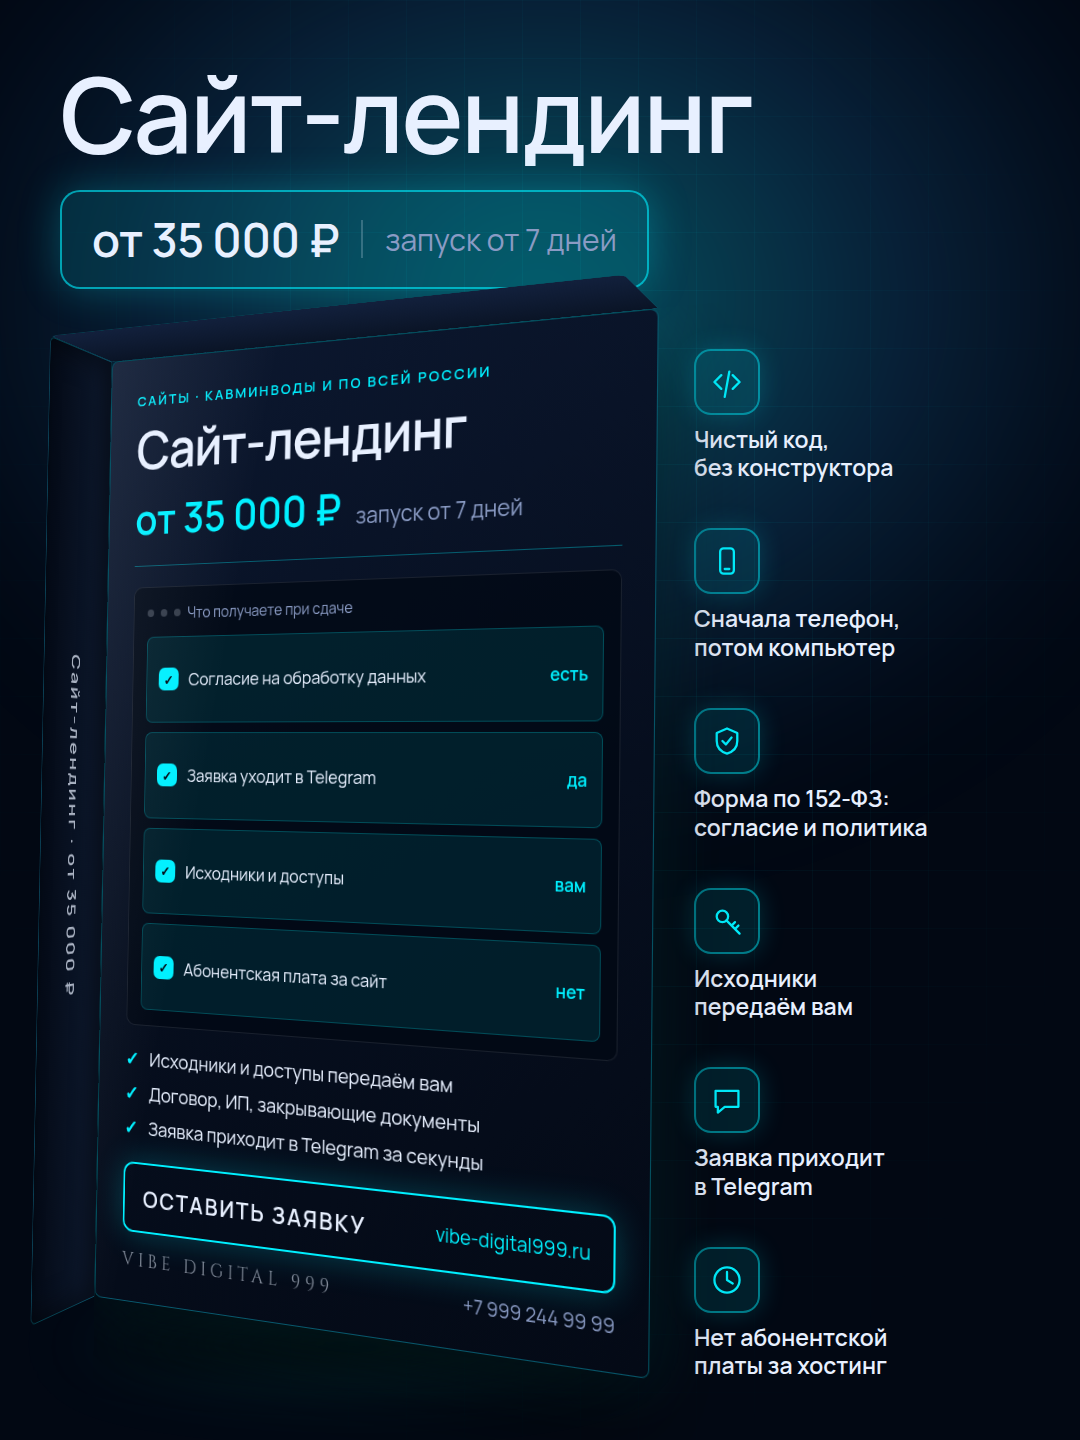
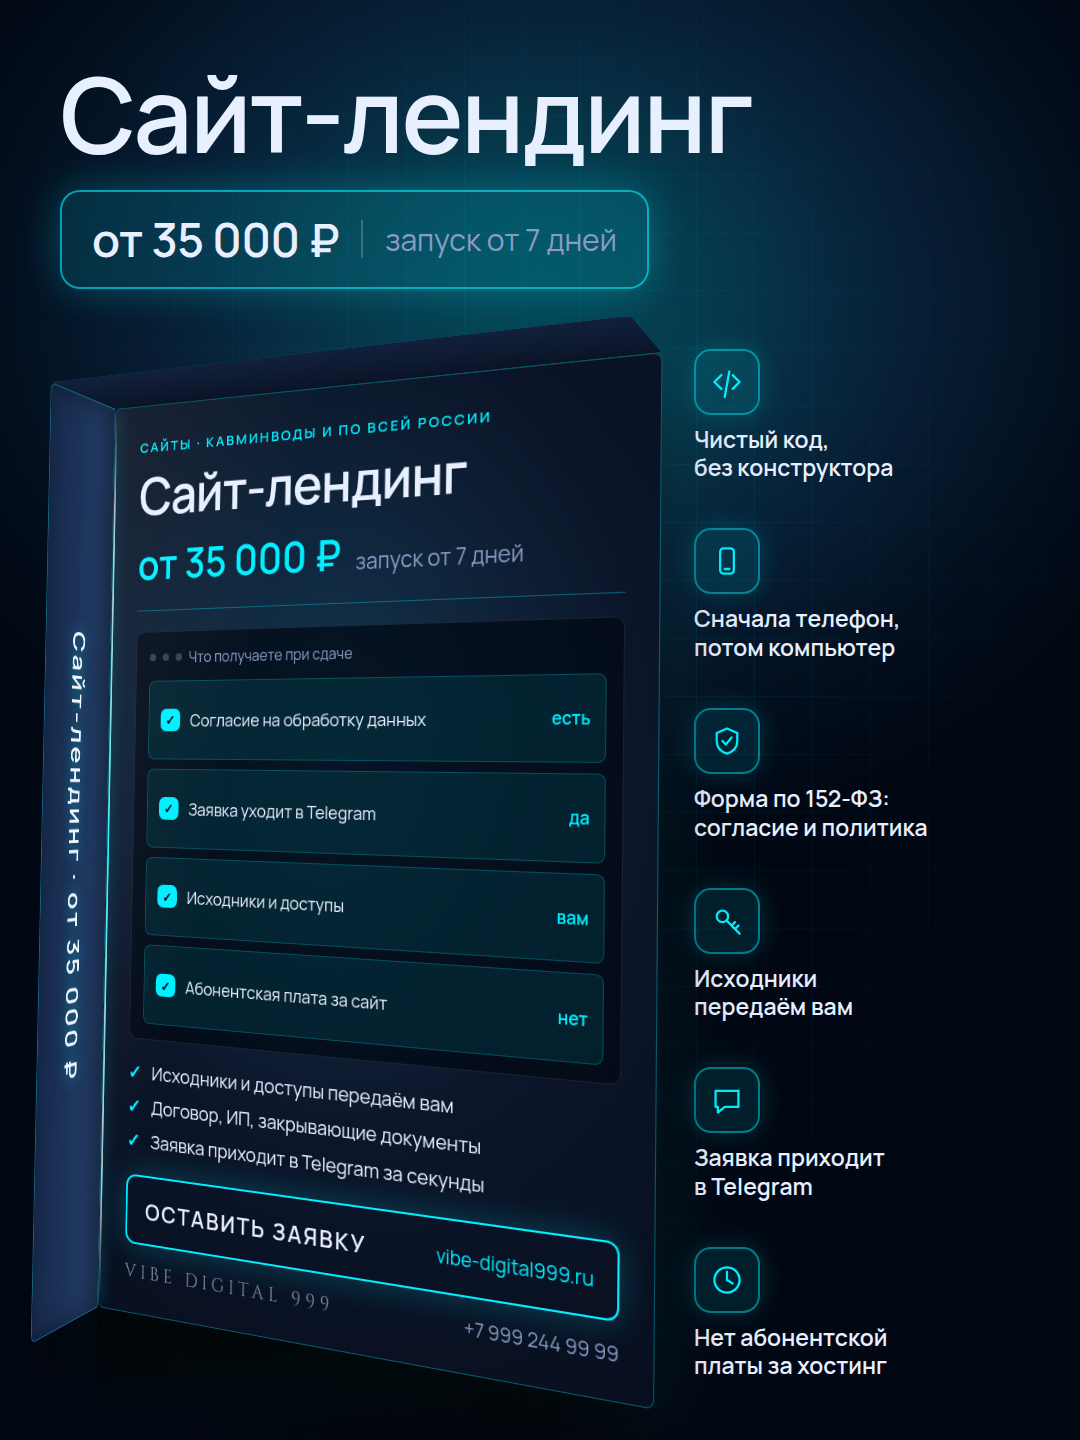
Свет и объём на книге, плюс карточка SEO-аудита
По разбору владелицы: корешок стал светлее лица (в этом и была чёрная
масса), блик 2px на сгибе, радиальный градиент на обложке вместо
заливки, тень уведена влево-вниз.

Вторая карточка — аудит. Штрафы 700 000 и 100 000 сверены с
калькулятором на главной; срок взят из прайса (3 дня), а не 3-5
из задания — это срок со старого макета.

Claude-Session: https://claude.ai/code/session_01ELgwZhZjs3zH5Yv9y5TfEh

diff --git a/marketing/karty-korobka.js b/marketing/karty-korobka.js
@@ -117,6 +117,40 @@ const KARTOCHKI = [
       ],
     },
   },
+  {
+    id: 'audit',
+    usluga: 'audit',
+    color: '#FF4D7D',
+    color2: '#A855F7',
+    eyebrow: 'Аудит сайта · Кавминводы и по всей России',
+    title: 'SEO-аудит и 152-ФЗ',
+    srokPrefix: 'отчёт за',
+    ticks: [
+      'Почему сайт не в поиске — по пунктам',
+      'Проверка форм на закон о персональных данных',
+      'Список правок, а не список замечаний',
+    ],
+    vygody: [
+      { znak: 'shchit', text: 'Проверка форм<br>по 152-ФЗ' },
+      { znak: 'glaz', text: 'Почему сайт<br>не в поиске' },
+      { znak: 'papka', text: 'Список правок,<br>а не замечаний' },
+      { znak: 'kod', text: 'Скорость, robots.txt,<br>карта сайта' },
+      { znak: 'soobshchenie', text: 'Разбор результатов<br>голосом' },
+      { znak: 'chasy', text: 'Успеть до запуска<br>рекламы' },
+    ],
+    /* Штрафы сверены с калькулятором на главной, `public/index.html`.
+       Формулировки нарушений оттуда же. На макете, который прислала
+       владелица, стояли 300 000 ₽ и 60 000 ₽ — обе цифры неверные. */
+    okno: {
+      zagolovok: 'Отчёт по вашему сайту',
+      stroki: [
+        { tip: 'bad', text: 'В форме нет галочки согласия', hvost: 'до 700 000 ₽' },
+        { tip: 'bad', text: 'Нет политики конфиденциальности', hvost: 'до 100 000 ₽' },
+        { text: 'Скорость загрузки в норме', hvost: 'ок' },
+        { text: 'robots.txt и sitemap.xml на месте', hvost: 'ок' },
+      ],
+    },
+  },
 ];
 
 const svg = (d, color) =>
@@ -170,6 +204,13 @@ ${fontCss}
   .plashka i{width:2px;height:38px;background:color-mix(in srgb, var(--white) 22%, transparent)}
   .plashka span{font-size:30px;color:var(--mist)}
 
+  /* Акция подписывается отдельной строкой, а не втискивается в плашку:
+     «15 000 ₽ вместо 20 000 ₽» в одной рамке читается как две цены
+     за одно и то же. Текст собирается из поля akciya в src/prices.js —
+     руками сюда старую цену не вписать. */
+  .akciya{margin-top:14px;font-size:26px;color:var(--mist)}
+  .akciya s{color:color-mix(in srgb, var(--white) 40%, transparent)}
+
   /* ── Сцена с коробкой ──────────────────────────────────── */
   .scena{margin-top:44px;flex:1;display:flex;gap:34px;align-items:stretch}
 
@@ -184,17 +225,19 @@ ${fontCss}
      и тень внизу оказывается прямо под дном. При center коробка висела
      посередине, а тень оставалась у нижнего края контейнера — в полусотне
      пикселей под ней, и предмет всё равно не стоял. */
-  .box3d{position:relative;perspective:1800px;perspective-origin:50% 38%;
-    flex:0 0 600px;display:flex;align-items:stretch;padding-bottom:58px}
+  .box3d{position:relative;perspective:1500px;perspective-origin:50% 38%;
+    /* Отступ сверху — под верхнюю грань: она торчит над лицом на всю
+       глубину коробки и без запаса налезала на строчку про акцию. */
+    flex:0 0 600px;display:flex;align-items:stretch;padding:46px 0 40px}
 
   /* Тень на поверхности. Без неё коробка висит в пустоте: объём есть,
      а стоять ей не на чем — глаз это замечает раньше, чем разбирает
      грани. Две тени: чёрная под дном и цветной отсвет пошире. */
   .box3d::after{content:'';position:absolute;z-index:0;
-    left:2%;right:6%;bottom:14px;height:54px;border-radius:50%;
-    background:radial-gradient(ellipse at 50% 50%,
-      rgba(0,0,0,.85) 0%, rgba(0,0,0,.45) 45%, transparent 72%);
-    filter:blur(20px)}
+    left:-10%;right:10%;bottom:8px;height:64px;border-radius:50%;
+    background:radial-gradient(ellipse at 42% 50%,
+      rgba(0,0,0,.9) 0%, rgba(0,0,0,.5) 42%, transparent 74%);
+    filter:blur(26px)}
   .box3d::before{content:'';position:absolute;z-index:0;
     left:-4%;right:-2%;bottom:0;height:88px;border-radius:50%;
     background:radial-gradient(ellipse at 50% 50%,
@@ -230,10 +273,14 @@ ${fontCss}
     /* Боковина темнее лица: плоскость уходит от света, и без этого
        перепада грани сливаются в одну картонку. Слева по ребру —
        светлая полоса, это сгиб. */
-    background:linear-gradient(90deg,#040A16 0%,#0A1426 62%,#101E38 100%);
-    border:1px solid color-mix(in srgb, var(--acc) 22%, transparent);
+    /* Корешок СВЕТЛЕЕ лица, а не темнее. Первая версия была темнее —
+       и книга сливалась в одну чёрную массу: две грани одного тона
+       читаются как один плоский прямоугольник. Светлая боковина
+       и тёмное лицо разводят плоскости мгновенно. */
+    background:linear-gradient(90deg,#16294A 0%,#1E355C 55%,#25406C 100%);
+    border:1px solid color-mix(in srgb, var(--acc) 30%, transparent);
     border-radius:8px 0 0 8px;
-    box-shadow:inset -18px 0 34px rgba(0,0,0,.55);
+    box-shadow:inset -14px 0 30px rgba(0,0,0,.4);
     display:flex;align-items:center;justify-content:center}
   /* Корешок повёрнут наружу, то есть к зрителю он обращён ИЗНАНКОЙ,
      и текст на нём выходит зеркальным. Первая версия так и вышла:
@@ -242,21 +289,47 @@ ${fontCss}
      буквы встают как надо. Проверять такое можно только глазами
      на увеличенном куске картинки: на общем плане надпись мелкая
      и выглядит правдоподобно. */
-  .spine span{writing-mode:vertical-rl;
-    font-size:22px;font-weight:700;letter-spacing:.12em;
-    color:color-mix(in srgb, var(--white) 72%, transparent)}
+  .spine span{writing-mode:vertical-rl;text-align:center;
+    font-size:30px;font-weight:800;letter-spacing:.1em;color:#F2F7FF;
+    text-shadow:0 0 18px color-mix(in srgb, var(--acc) 55%, transparent)}
 
+  /* Лицо: не плоская заливка, а материал. Радиальный градиент из центра
+     к краям — середина светлее, углы уходят в тень. Без него обложка
+     читается как фон под текстом, а не как поверхность предмета.
+     Тень уведена влево-вниз: свет падает справа сверху, значит книга
+     отбрасывает тень в противоположный угол. */
   .face{position:relative;flex:1;padding:34px 32px 30px;border-radius:8px;
-    background:linear-gradient(155deg,#0C1830 0%,#060E1E 55%,#040A16 100%);
-    border:1px solid color-mix(in srgb, var(--acc) 30%, transparent);
-    box-shadow:0 40px 90px rgba(0,0,0,.6),
-               0 0 70px color-mix(in srgb, var(--acc) 14%, transparent);
+    background:
+      radial-gradient(ellipse 90% 70% at 42% 34%,
+        color-mix(in srgb, var(--acc) 9%, transparent) 0%,
+        transparent 62%),
+      radial-gradient(ellipse 120% 90% at 45% 40%,
+        #16243F 0%, #0B1428 48%, #050C1A 100%);
+    border:1px solid color-mix(in srgb, var(--acc) 32%, transparent);
+    box-shadow:-46px 60px 120px rgba(0,0,0,.72),
+               -18px 26px 60px rgba(0,0,0,.5),
+               0 0 80px color-mix(in srgb, var(--acc) 13%, transparent);
     display:flex;flex-direction:column}
-  /* Блик по левому краю — от него коробка читается объёмной. */
+
+  /* БЛИК НА СГИБЕ. Тонкая светлая полоса ровно по стыку лица и корешка.
+     Приём стоит две строчки, а объём даёт сразу: глаз читает ребро
+     как физический сгиб, поймавший свет. */
+  .face::after{content:'';position:absolute;top:2px;bottom:2px;left:0;width:2px;
+    border-radius:2px;
+    background:linear-gradient(180deg,
+      transparent 0%,
+      rgba(255,255,255,.72) 12%,
+      color-mix(in srgb, var(--acc) 90%, white) 50%,
+      rgba(255,255,255,.72) 88%,
+      transparent 100%);
+    box-shadow:0 0 16px color-mix(in srgb, var(--acc) 70%, transparent);
+    pointer-events:none}
+
+  /* Мягкая засветка от верхнего левого угла — след того же источника. */
   .face::before{content:'';position:absolute;inset:0;border-radius:8px;
-    background:linear-gradient(100deg,
-      color-mix(in srgb, var(--white) 9%, transparent) 0%,
-      transparent 26%);
+    background:linear-gradient(104deg,
+      rgba(255,255,255,.07) 0%,
+      transparent 30%);
     pointer-events:none}
 
   .f-eye{font-size:15px;font-weight:700;letter-spacing:.16em;
@@ -290,6 +363,16 @@ ${fontCss}
     font-size:14px;font-weight:800;color:var(--ink);background:var(--acc)}
   .okno .row span{flex:1}
   .okno .row b{color:var(--acc);font-size:17px}
+
+  /* Строка нарушения. Цифра штрафа рядом с формулировкой — единственное
+     место на карточке, где мы пугаем, и пугаем законом, а не собой.
+     Цифры сверены с калькулятором на главной: ч. 2 ст. 13.11 КоАП —
+     до 700 000 ₽, ч. 3 — до 100 000 ₽. На макете владелицы стояли
+     300 000 и 60 000: первое из другой части статьи, второе устарело. */
+  .okno .row.bad{background:rgba(255,77,125,.11);
+    border-color:rgba(255,77,125,.42)}
+  .okno .row.bad em{background:#FF4D7D;color:#fff}
+  .okno .row.bad b{color:#FF7D9E}
 
   .ticks{margin-top:auto;padding-top:22px;display:flex;flex-direction:column;gap:11px}
   .ticks div{display:flex;gap:12px;font-size:20px;line-height:1.25}
@@ -326,6 +409,7 @@ ${fontCss}
     <div class="plashka">
       <b>${k.cena}</b><i></i><span>${k.srokPrefix} ${k.srok}</span>
     </div>
+    ${k.akciya ? `<div class="akciya">${k.akciya}</div>` : ''}
 
     <div class="scena">
       <div class="box3d">
@@ -341,7 +425,7 @@ ${fontCss}
             <div class="okno">
               <div class="bar"><u></u><u></u><u></u>${k.okno.zagolovok}</div>
               <div class="rows">
-                ${k.okno.stroki.map((s) => `<div class="row"><em>✓</em><span>${s.text}</span><b>${s.hvost}</b></div>`).join('\n                ')}
+                ${k.okno.stroki.map((s) => `<div class="row${s.tip === 'bad' ? ' bad' : ''}"><em>${s.tip === 'bad' ? '!' : '✓'}</em><span>${s.text}</span><b>${s.hvost}</b></div>`).join('\n                ')}
               </div>
             </div>
 
@@ -389,6 +473,13 @@ fs.mkdirSync(OUT, { recursive: true });
        физически нельзя записать в текст карточки руками. */
     k.cena = PRICES.cena(k.usluga);
     k.srok = PRICES.srok(k.usluga);
+
+    /* Акция тоже из прайса: и текст, и прежняя цена. Кончится акция —
+       строка исчезнет сама, вычёркивать её на картинке не придётся. */
+    const u = PRICES.usluga(k.usluga);
+    k.akciya = u.akciya
+      ? `${u.akciya.tekst[0].toUpperCase()}${u.akciya.tekst.slice(1)} — обычная цена <s>${PRICES.rub(u.akciya.bylo)}</s>`
+      : '';
 
     const ctx = await browser.newContext({ viewport: { width: W, height: H }, deviceScaleFactor: 1 });
     const page = await ctx.newPage();

diff --git a/TASKS.md b/TASKS.md
@@ -3079,3 +3079,51 @@ GreenSock). Проверено открытием страниц, а не пои
 и увеличенном куске. **Нарисовал — открой и посмотри.** Отдельно:
 владелица увидела плоскость с первого взгляда, а я до этого счёл
 карточку готовой и отправил.
+
+### 13 августа, дополнение — свет на книге и карточка аудита
+
+Владелица разобрала карточку по пунктам: книга сливается в чёрную массу,
+корешок не отделяется, нет блика на сгибе, обложка плоская, книга висит
+в воздухе. Все пять замечаний верные.
+
+**Сделано по её списку:**
+
+- [x] `      ` **Корешок стал СВЕТЛЕЕ лица, а не темнее.** Это и была
+      главная причина «единой массы»: две грани одного тона читаются
+      как один плоский прямоугольник. Текст на нём крупнее (30px вместо
+      22), ярче и со свечением.
+- [x] `      ` **Блик на сгибе** — полоса 2px по стыку лица и корешка,
+      светлая в середине, растворяется к краям. Две строчки CSS, а объём
+      даёт сразу: глаз читает ребро как физический сгиб, поймавший свет.
+- [x] `      ` **Обложка перестала быть заливкой.** Радиальный градиент
+      из центра к краям: середина светлее, углы уходят в тень. Читается
+      как материал, а не как фон под текстом.
+- [x] `      ` **Тень уведена влево-вниз** и стала мягче: свет падает
+      справа сверху, значит книга отбрасывает тень в противоположный
+      угол. Плюс размытое пятно на «полу».
+- [x] `      ` Перспектива 1500px по её указанию.
+- [x] `      ` Запас сверху под верхнюю грань: она торчит над лицом
+      на всю глубину коробки и налезала на строку про акцию.
+
+**Добавлена вторая карточка — SEO-аудит:**
+
+- [x] `      ` `tovar-audit.png`. Штрафы взяты из калькулятора на главной
+      и сверены по коду: **до 700 000 ₽** за отсутствие галочки согласия
+      (ч. 2 ст. 13.11 КоАП) и **до 100 000 ₽** за отсутствие политики
+      (ч. 3). На макете владелицы стояли 300 000 и 60 000.
+- [x] `      ` **Срок поставлен из прайса — «отчёт за 3 дня», а не
+      «3–5 дней»**, как было в её задании. «3–5 дней» — это тот самый
+      срок со старого макета, из-за которого 13.08 заводили сверку
+      сроков. Срок в задании не спорный, а просто перенесённый
+      по инерции.
+- [x] `      ` Акция подписывается отдельной строкой под плашкой, текст
+      и прежняя цена — из поля `akciya` в `src/prices.js`. Кончится
+      акция — строка исчезнет сама.
+- [x] `      ` Красные строки нарушений в окне отчёта: свой цвет, знак
+      «!» вместо галочки.
+
+**Ждём от Гульнары:**
+
+- [ ] Посмотреть обе карточки и сказать, что ещё не так: угол, толщина,
+      яркость корешка, сила тени.
+- [ ] Загрузить в Яндекс Бизнес после того, как понравятся.
